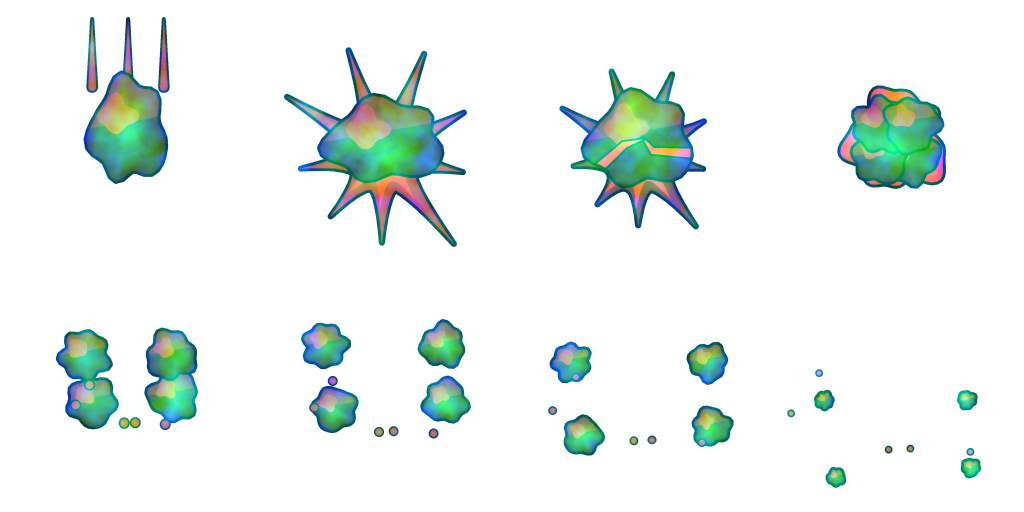
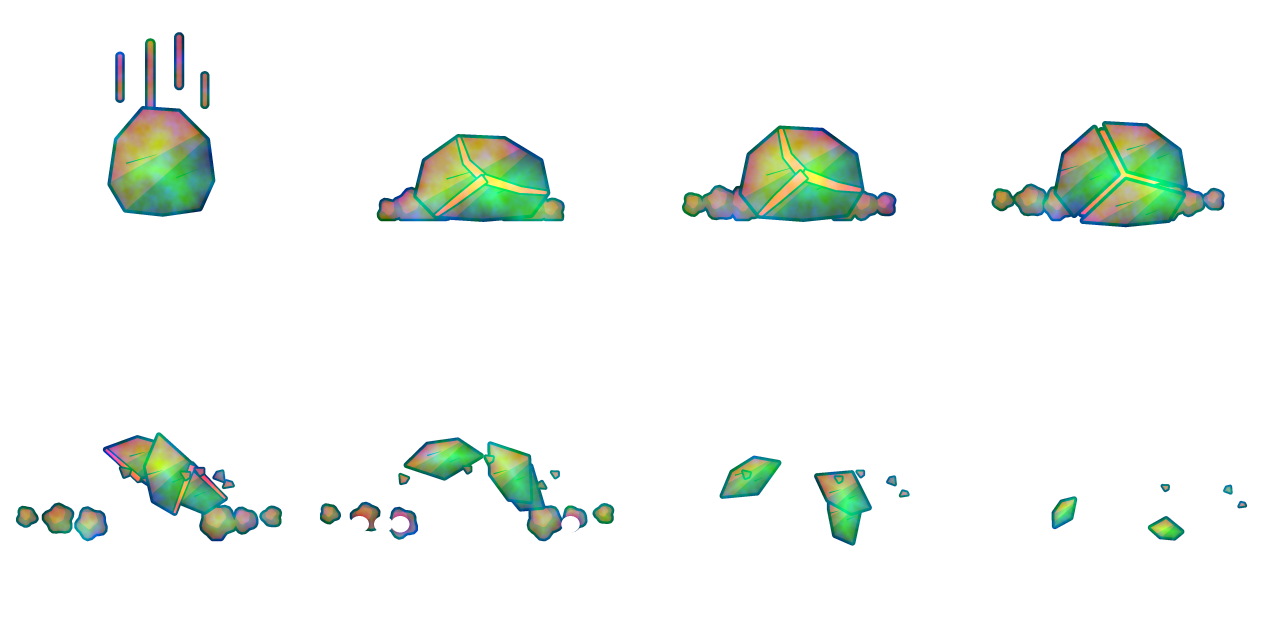
feat(fx): Rockslide's boulder drawn as chunky stone with magma only in its cracks
The rock_boulder sheet is redrawn as a faceted stone (lit and shadow facets,
facet lines, fat ink) played through a new rock palette row: stone tones with
a magma hot, so only the cracks and the split glow. The fall frame trails
rounded speed streaks; the landing kicks stone dust lumps instead of an orange
star; it splits into three chunks that tumble out. Both spawns go through
FX_BEAT.stamp (pooled), and the orange shock ring under the landing is gone.

diff --git a/tools/vfx_gen/gen_finish.py b/tools/vfx_gen/gen_finish.py
@@ -413,33 +413,75 @@ def echo_axe(i, n, size):
     return f.finish()
 
 
-# --- rock_boulder: Rockslide's boulder (comic_boulder.gd, designed) -------------------------------------------
-# One fat faceted boulder: frame 0 it drops in stretched under three fall streaks, 1 lands squashed over a spiky hot
-# star, 2 settles with hot cracks running across it, 3 the cracks open (hot light in the gaps), 4-6 four chunks fly
-# out and up, turning and shrinking, pebbles with them, 7 a few crumbs. Earth row: dark rock with a lit facet.
+# --- rock_boulder: Rockslide's boulder (mid_beats.boulder_drop, comic_boulder.gd; redrawn fx-queue-a) ---------------
+# Played through the "rock" palette row: the dust row's stone tones with magma only as the hot tone, so the rock is
+# stone and only its cracks glow (fx-language: rock is stone, magma is only what glows). Was a flat orange blob under
+# three straight bars, landing on an orange spiky star. Now one chunky faceted stone (straight-sided, a flat bottom,
+# a lit top facet and a shadow facet: flat cel cuts, no gradient), fat ink.
+# Frame 0 (held over the fall): the stone stretched a touch, three tapered speed lines trailing up off it, uneven.
+# 1 the landing: squashed, three hot cracks run from one point to its rim (the one hot area), stone lumps of dust
+# kicked out low on both sides (round lumps, flat bottoms; no star). 2 settles, the cracks wider. 3 it splits along
+# the cracks into three chunks a little apart, hot light in the gaps. 4-6 the chunks tumble out and down, the
+# broken faces cooling (hot only on 4), chunky pebbles with them, the dust lumps lifting and thinning. 7 crumbs.
 
-def _rock(f, cx, cy, r, seed, sx=1.0, sy=1.0, rot=0.0, cracks=0, hot_cracks=False):
-    ring = wobble_ring(cx, cy, r, seed, amp=0.1, lumps=(3, 5, 7), n=40, rot=rot)
-    ring = [(cx + (x - cx) * sx, cy + (y - cy) * sy) for x, y in ring]
-    m = poly_mask([ring], f.S)
-    f.fill(m, BODY, ink=3.0)
-    # shadow side (bottom right) and a lit facet (top left): a flat cel cut, not a gradient
-    shade = poly_mask([[(cx - r * 2, cy + r * 0.15), (cx + r * 2, cy - r * 0.55), (cx + r * 2, cy + r * 2), (cx - r * 2, cy + r * 2)]], f.S)
-    f.fill(shade * m, DEEP)
-    facet = wobble_ring(cx - r * 0.3 * sx, cy - r * 0.32 * sy, r * 0.42, seed + 3, amp=0.12, lumps=(3, 4), n=24, rot=rot)
-    f.fill(poly_mask([facet], f.S) * m, LIGHT)
-    g = rng(seed)
-    for k in range(cracks):
-        a = rot + k * 2.3 + g.uniform(-0.3, 0.3)
-        p0 = (cx + math.cos(a) * r * 1.05 * sx, cy + math.sin(a) * r * 1.05 * sy)
-        p1 = (cx + math.cos(a + 0.4) * r * 0.35, cy + math.sin(a + 0.4) * r * 0.35)
-        p2 = (cx + g.uniform(-0.1, 0.1) * r, cy + g.uniform(-0.1, 0.1) * r)
-        path = [p0, p1, p2]
-        if hot_cracks:
-            f.fill(poly_mask([stroke(path, [f.u(0.07), f.u(0.05), 0.0], cap=False)], f.S) * m, HOT, ink=2.0)
-        else:
-            f.fill(poly_mask([stroke(path, [f.u(0.03), f.u(0.025), 0.0], cap=False)], f.S) * m, INK)
+_ROCK = [(-0.95, 0.28), (-0.82, -0.42), (-0.32, -0.9), (0.36, -0.86), (0.9, -0.42), (1.0, 0.22), (0.76, 0.66),
+         (0.05, 0.74), (-0.66, 0.68)]
+_SPLIT = (2, 5, 8)  # the cracks run from the middle to these corners; the chunks are the three sectors between
+
+
+def _rock_mid():
+    return (0.06, -0.06)
+
+
+def _rock_pts(idx, cx, cy, r, sx, sy, rot=0.0, about=None):
+    """Outline points (unit coords) to frame px, squashed, turned `rot` round `about` (unit coords)."""
+    ax, ay = about if about is not None else (0.0, 0.0)
+    out = []
+    for p in idx:
+        x, y = p[0] - ax, p[1] - ay
+        x, y = x * math.cos(rot) - y * math.sin(rot), x * math.sin(rot) + y * math.cos(rot)
+        out.append((cx + (x + ax) * r * sx, cy + (y + ay) * r * sy))
+    return out
+
+
+def _stone(f, pts, r, ink=3.4, lit=True):
+    """A chunk of stone: body, a lit facet cut off its top-left, a shadow facet off its bottom-right, inked."""
+    m = poly_mask([pts], f.S)
+    f.fill(m, BODY, ink=ink)
+    xs = [p[0] for p in pts]
+    ys = [p[1] for p in pts]
+    cx, cy = sum(xs) / len(xs), sum(ys) / len(ys)
+    S = f.S
+    yy, xx = np.mgrid[0:S, 0:S].astype(np.float32)
+    if lit:
+        top = ((xx - cx) * 0.55 + (yy - cy) < -r * 0.22).astype(np.float32)
+        f.fill(top * m, LIGHT)
+    low = ((xx - cx) * 0.8 + (yy - cy) * 0.9 > r * 0.18).astype(np.float32)
+    f.fill(low * m, DEEP)
+    # two short ink facet lines where the planes meet (chunky stone, not a pebble)
+    if lit and r > f.u(0.1):
+        for (ax, ay), (bx, by) in (((-0.62, -0.05), (-0.1, -0.2)), ((0.25, 0.2), (0.62, 0.05))):
+            f.fill(poly_mask([stroke([(cx + ax * r, cy + ay * r), (cx + bx * r, cy + by * r)], [f.u(0.008), f.u(0.014), 1.0], cap=False)], f.S) * m, INK)
     return m
+
+
+def _dust_lumps(f, cx, base, r, u, seed, side_k=(1.0, 0.8)):
+    """Stone dust kicked out low on both sides of the landing: round lumps on a flat bottom, a lit top on each."""
+    g = rng(seed)
+    lumps = []
+    for side, k in ((-1, side_k[0]), (1, side_k[1])):
+        for j in range(3):
+            d = r * (0.9 + 0.42 * j) * lerp(0.9, 1.35, u) * k
+            rr = r * (0.34 - 0.07 * j) * lerp(1.0, 0.7, u) * g.uniform(0.85, 1.1)
+            lumps.append((cx + side * d, base - rr * 0.7 - r * 0.25 * u * (j + 1) * 0.5, rr))
+    polys = [wobble_ring(x, y, rr, seed + q, amp=0.08, lumps=(3, 5), n=28) for q, (x, y, rr) in enumerate(lumps)]
+    m = poly_mask(polys, f.S)
+    flat = (np.mgrid[0:f.S, 0:f.S][0] < base).astype(np.float32)  # the flat bottom
+    m = m * flat
+    f.fill(m, BODY, ink=2.6)
+    lit = poly_mask([wobble_ring(x - rr * 0.15, y - rr * 0.3, rr * 0.62, seed + 40 + q, amp=0.08, lumps=(3, 5), n=24)
+                     for q, (x, y, rr) in enumerate(lumps)], f.S)
+    f.fill(lit * m, LIGHT)
 
 
 def rock_boulder(i, n, size):
@@ -448,39 +490,86 @@ def rock_boulder(i, n, size):
     g = rng(1301)
     r = f.u(0.36)
     cy = c + f.u(0.1)
-    tips = [f.u(v) for v in g.uniform(0.62, 0.92, 9)]
-    if i == 0:
-        for k in range(3):
-            x = c + f.u((k - 1) * 0.28)
-            f.fill(poly_mask([stroke([(x, cy - f.u(0.95)), (x, cy - f.u(0.42))], [0.0, f.u(0.06)], cap=True)], f.S), LIGHT, ink=2.0)
-        _rock(f, c, cy - f.u(0.08), r * 0.92, 41, sx=0.86, sy=1.16)
-    elif i in (1, 2):
-        st = star(c, cy + f.u(0.12), tips if i == 1 else [t * 0.8 for t in tips], f.u(0.28), rot=0.2, bow=0.3)
-        m = poly_mask([st], f.S)
-        f.fill(m, LIGHT if i == 1 else BODY, ink=3.0)
-        f.fill(poly_mask([star(c, cy + f.u(0.12), [f.u(0.42)] * 9, f.u(0.2), rot=0.25, bow=0.3)], f.S) * m, HOT)
-        _rock(f, c, cy, r, 41, sx=1.22 if i == 1 else 1.08, sy=0.84 if i == 1 else 0.95, cracks=2 if i == 2 else 0, hot_cracks=True)
-    elif i == 3:
-        # the cracks open: four chunks a little apart, hot light in the gaps
-        f.fill(poly_mask([wobble_ring(c, cy, r * 1.02, 41)], f.S), HOT, ink=3.0)
-        for k in range(4):
-            a = math.pi * 0.25 + k * math.pi / 2
-            _rock(f, c + math.cos(a) * r * 0.48, cy + math.sin(a) * r * 0.48, r * 0.55, 50 + k, rot=a)
-    else:
-        u = (i - 3) / (n - 4)
-        for k in range(4):
-            a = math.pi * 0.25 + k * math.pi / 2 + g.uniform(-0.2, 0.2)
-            d = r * lerp(0.6, 2.0, ease_out(u))
-            rise = f.u(0.25) * math.sin(u * math.pi) - f.u(0.3) * u * u
-            rr = r * 0.55 * (1 - 0.45 * u)
-            if i == n - 1:
-                rr *= 0.5
-            _rock(f, c + math.cos(a) * d, cy + math.sin(a) * d * 0.6 - rise, rr, 50 + k, rot=a + u * 2.0 * (1 if k % 2 else -1))
-        for k in range(5):  # pebbles
-            a = g.uniform(0, math.tau)
-            d = r * lerp(0.8, 2.4, u) * g.uniform(0.7, 1.1)
-            pr = f.u(0.035) * (1 - 0.5 * u)
-            f.fill(ellipse_mask(c + math.cos(a) * d, cy + math.sin(a) * d * 0.6, pr, pr, f.S), LIGHT, ink=1.6)
+    base = cy + r * 0.74  # the floor line under it when landed
+    mid = _rock_mid()
+    if i == 0:  # in the air: stretched, three tapered speed lines trailing up, uneven lengths and gaps
+        sx, sy = 0.9, 1.1
+        for x_off, L, w, st in ((-0.25, 0.26, 0.04, 0.12), (-0.06, 0.44, 0.048, 0.02), (0.12, 0.3, 0.044, 0.2), (0.28, 0.18, 0.036, 0.08)):
+            x = c + f.u(x_off)
+            y0 = cy - r * 1.02 - f.u(st)
+            top = y0 - f.u(L)
+            f.poly(stroke([(x, y0), (x, top)], [f.u(w) * 0.7, f.u(w), f.u(w) * 0.7], cap=True), LIGHT, ink=2.6)
+        _stone(f, _rock_pts(_ROCK, c, cy - f.u(0.06), r, sx, sy), r)
+        return f.finish()
+    if i in (1, 2):
+        sx, sy = (1.16, 0.86) if i == 1 else (1.06, 0.95)
+        rcy = base - r * 0.74 * sy
+        _dust_lumps(f, c, base, r, 0.0 if i == 1 else 0.35, 1310)
+        pts = _rock_pts(_ROCK, c, rcy, r, sx, sy)
+        m = _stone(f, pts, r)
+        mx, my = c + mid[0] * r * sx, rcy + mid[1] * r * sy
+        w = f.u(0.05 if i == 1 else 0.062)
+        for k, q in enumerate(_SPLIT):  # hot cracks from one point to three corners, kinked once
+            ex, ey = pts[q]
+            kx = mx + (ex - mx) * 0.5 + f.u(0.03) * (1 if k % 2 else -1)
+            ky = my + (ey - my) * 0.5 + f.u(0.025)
+            path = [(mx, my), (kx, ky), (ex, ey)]
+            f.fill(poly_mask([stroke(path, [w, w * 0.75, w * 0.35], cap=False)], f.S) * m, HOT, ink=2.0)
+        return f.finish()
+    # 3+: the chunks (the sectors between the cracks)
+    chunks = []
+    for k in range(3):
+        a, b = _SPLIT[k], _SPLIT[(k + 1) % 3]
+        idx = [a]
+        q = a
+        while q != b:
+            q = (q + 1) % len(_ROCK)
+            idx.append(q)
+        chunks.append([mid] + [_ROCK[j] for j in idx])
+    rcy = base - r * 0.74 * 0.95
+    if i == 3:  # split: a little apart, hot light in the gaps
+        f.fill(poly_mask([_rock_pts(_ROCK, c, rcy, r * 0.97, 1.04, 0.95)], f.S), HOT, ink=3.4)
+        _dust_lumps(f, c, base, r, 0.6, 1310)
+        for k, ch in enumerate(chunks):
+            ccx = sum(p[0] for p in ch[1:]) / (len(ch) - 1)
+            ccy = sum(p[1] for p in ch[1:]) / (len(ch) - 1)
+            push = 0.16
+            pts = _rock_pts(ch, c + ccx * r * push, rcy + ccy * r * push, r, 1.04, 0.95)
+            _stone(f, pts, r * 0.6)
+        return f.finish()
+    u = (i - 3) / (n - 4)  # 0.25 .. 1
+    if i <= 5:
+        _dust_lumps(f, c, base, r, min(1.0, 0.6 + u * 0.6), 1310, side_k=(1.0 + u * 0.3, 0.85 + u * 0.2))
+        if i == 5:  # the dust thins: holes eaten into it
+            for k in range(5):
+                x = c + f.u(g.uniform(-0.8, 0.8))
+                f.cut(ellipse_mask(x, base - r * 0.25, r * 0.16, r * 0.14, f.S))
+    flyd = [(-1.0, 0.55), (0.25, 1.0), (1.0, 0.45)]  # chunk k flies along: out and up, unevenly
+    for k, ch in enumerate(chunks):
+        if i == n - 1 and k == 1:
+            continue
+        ccx = sum(p[0] for p in ch[1:]) / (len(ch) - 1)
+        ccy = sum(p[1] for p in ch[1:]) / (len(ch) - 1)
+        dx, dy = flyd[k]
+        out = ease_out(u)
+        x = c + ccx * r + dx * r * 1.5 * out
+        y = rcy + ccy * r - r * 0.9 * dy * math.sin(u * math.pi) + r * 0.7 * u * u
+        scl = lerp(0.95, 0.55, u) * (0.6 if i == n - 1 else 1.0)
+        spin = (0.9 if k % 2 else -0.75) * u * 2.2
+        loc = [(p[0] - ccx, p[1] - ccy) for p in ch]
+        pts = _rock_pts(loc, x, y, r * scl, 1.0, 1.0, rot=spin)
+        _stone(f, pts, r * scl * 0.6, ink=3.0)
+        if i == 4:  # the broken face still hot: the first edge (the crack side) glows
+            f.fill(poly_mask([stroke([pts[0], pts[1]], [f.u(0.03), f.u(0.012)], cap=False)], f.S), HOT, ink=1.6)
+    for k in range(5 if i < n - 1 else 3):  # chunky pebbles, not dots
+        a = -math.pi * g.uniform(0.1, 0.9)
+        d = r * lerp(0.9, 2.2, u) * g.uniform(0.7, 1.1)
+        px, py = c + math.cos(a) * d, rcy + math.sin(a) * d * 0.55 + r * u * u * 0.6
+        pr = f.u(0.04) * (1 - 0.45 * u) * g.uniform(0.8, 1.2)
+        rot = g.uniform(0, math.tau)
+        peb = [(px + math.cos(rot + q * 2.1 + 0.3 * (q % 2)) * pr, py + math.sin(rot + q * 2.1 + 0.3 * (q % 2)) * pr * 0.8)
+               for q in range(3)] + [(px + math.cos(rot + 5.4) * pr * 0.9, py + math.sin(rot + 5.4) * pr * 0.7)]
+        f.poly(peb, BODY if k % 2 else LIGHT, ink=2.0)
     return f.finish()
 
 
@@ -547,7 +636,7 @@ SHEETS = {
     "daze_star": (daze_star, 96, 4, 4, "gold", "edge", 0.4),
     "combo_burst": (combo_burst, 256, 3, 6, "void", "edge", 0.45),
     "echo_axe": (echo_axe, 192, 4, 4, "void", "edge", 0.4),
-    "rock_boulder": (rock_boulder, 256, 4, 8, "earth", "edge", 0.45),
+    "rock_boulder": (rock_boulder, 320, 4, 8, "rock", "edge", 0.45),
     "steam_cloud": (steam_cloud, 320, 3, 6, "water", "edge", 0.5),
 }
 

diff --git a/tools/vfx_gen/vfxlib.py b/tools/vfx_gen/vfxlib.py
@@ -314,6 +314,7 @@ PALETTES = {
     "boltB": [(0.08, 0.05, 0.0), (0.72, 0.45, 0.0), (1.0, 0.86, 0.12), (1.0, 0.97, 0.62), (1.0, 1.0, 0.96)],
     "air": [(0.06, 0.1, 0.16), (0.45, 0.62, 0.72), (0.8, 0.93, 0.95), (0.95, 1.0, 0.98), (1.0, 1.0, 1.0)],
     "dust": [(0.08, 0.04, 0.06), (0.55, 0.47, 0.42), (0.78, 0.7, 0.6), (0.95, 0.9, 0.8), (1.0, 0.98, 0.92)],
+    "rock": [(0.08, 0.04, 0.06), (0.36, 0.3, 0.3), (0.6, 0.53, 0.47), (0.86, 0.8, 0.68), (1.0, 0.62, 0.16)],  # stone, magma hot
     "gold": [(0.08, 0.04, 0.01), (0.82, 0.48, 0.08), (1.0, 0.78, 0.3), (1.0, 0.93, 0.66), (1.0, 1.0, 0.9)],
 }
 FLOOR = (0.24, 0.22, 0.36)
